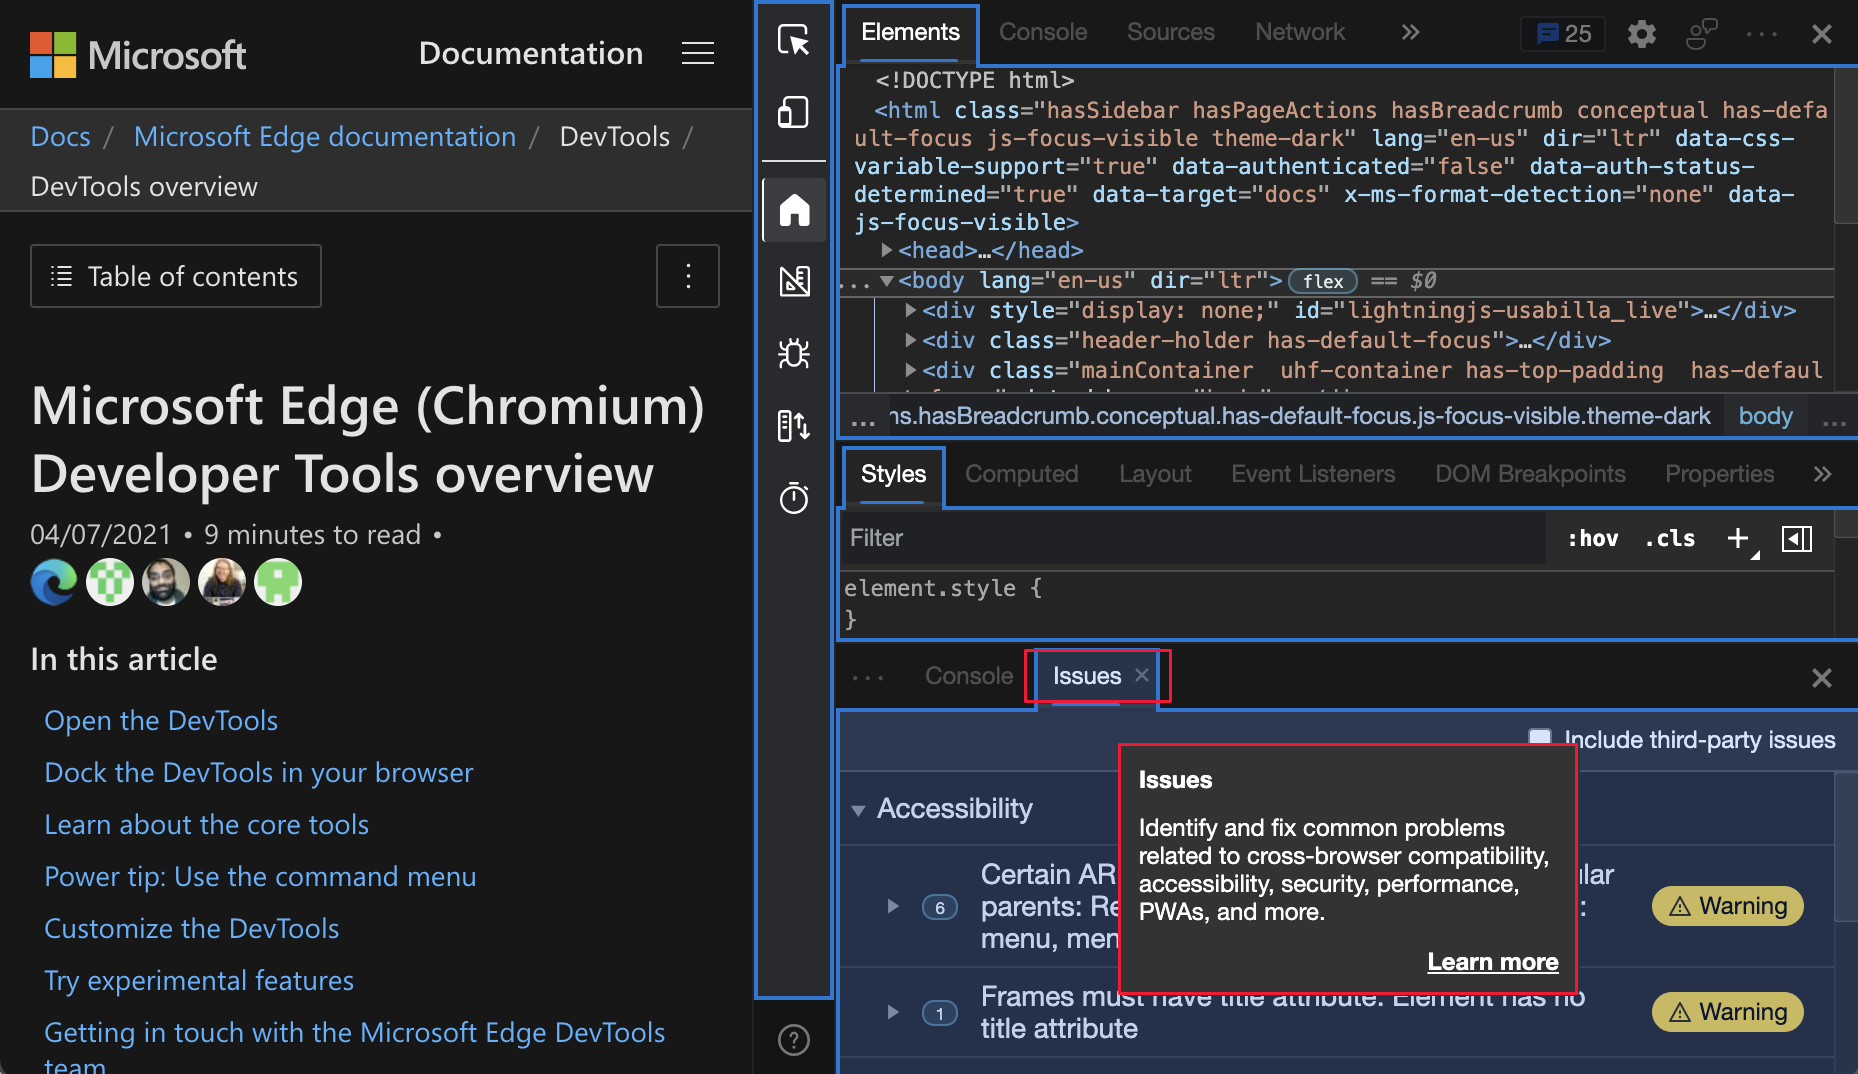
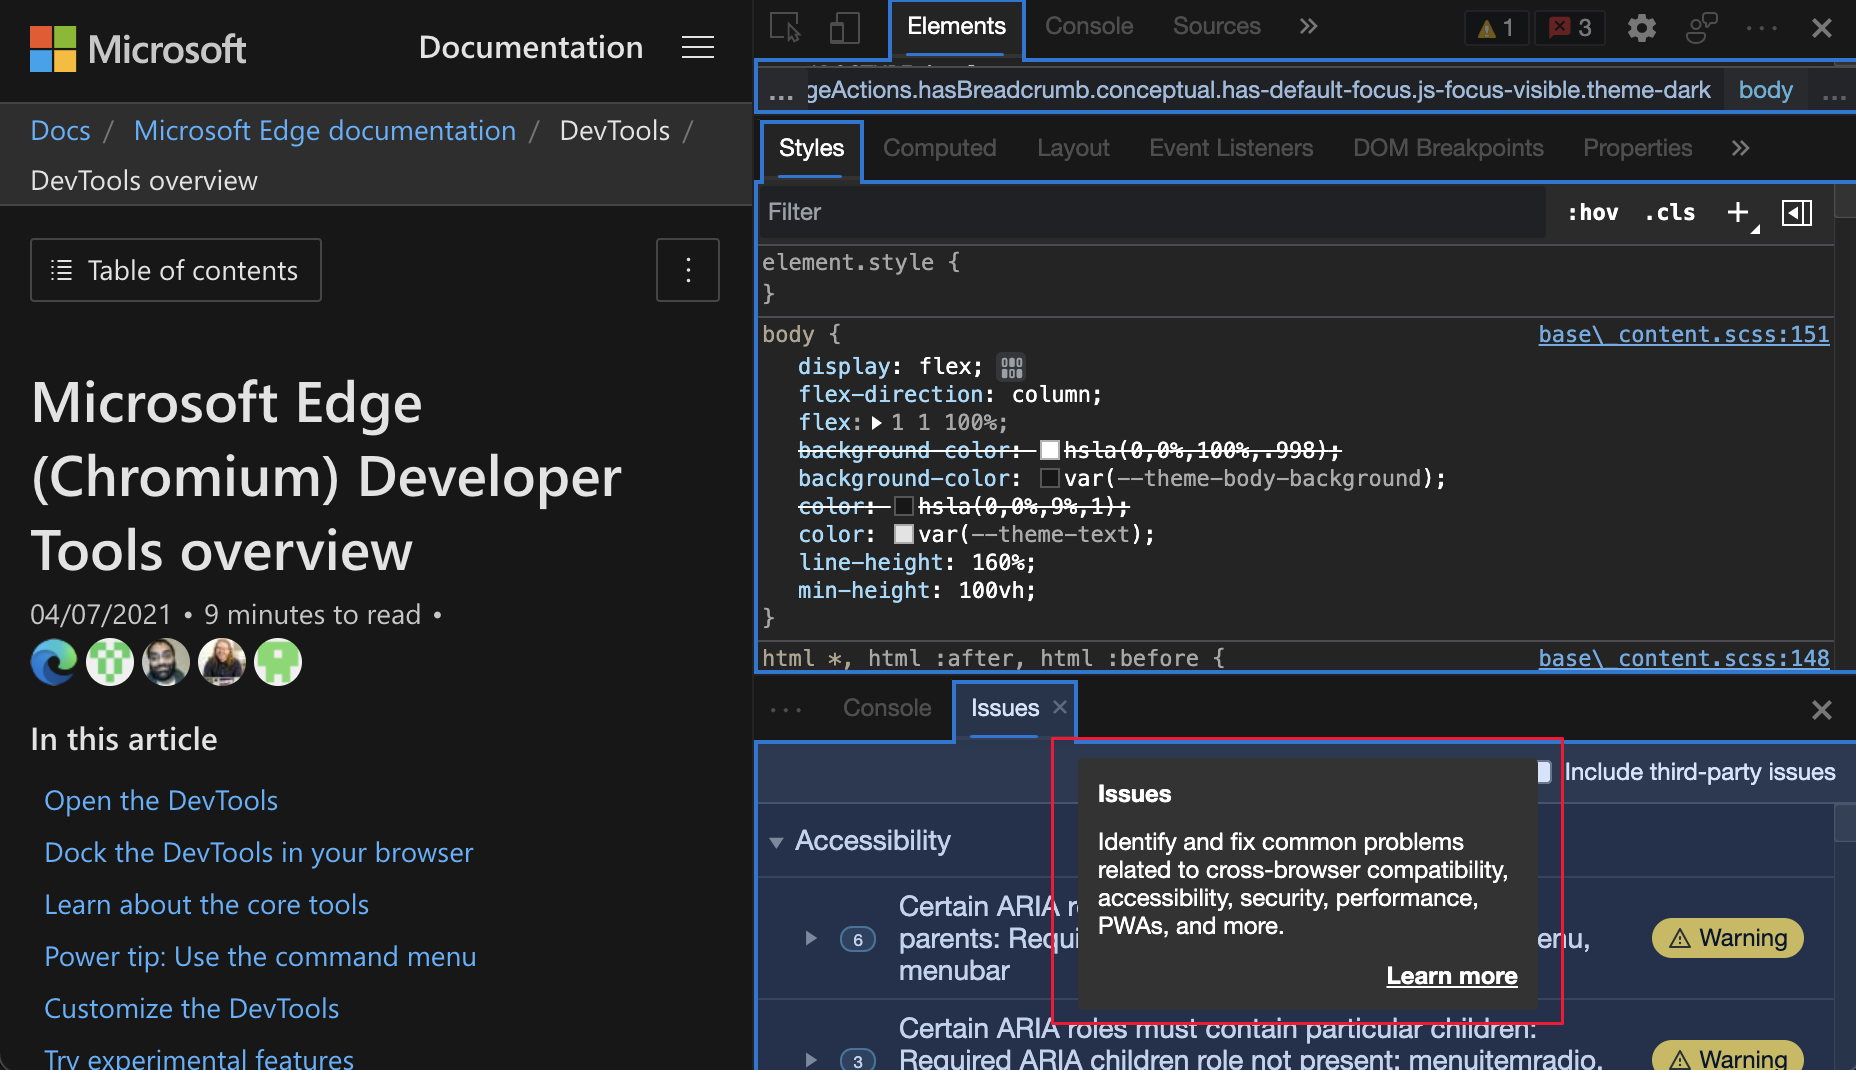
commit from WebFundamentals

diff --git a/microsoft-edge/devtools-guide-chromium/whats-new/2021/04/devtools.md b/microsoft-edge/devtools-guide-chromium/whats-new/2021/04/devtools.md
@@ -1,0 +1,236 @@
+---
+description: Wavy underlines highlight code issues in the Elements tool, Service worker update timeline, and more.
+title: What's new in DevTools (Microsoft Edge 91)
+author: MSEdgeTeam
+ms.author: msedgedevrel
+ms.date: 04/21/2021
+ms.topic: article
+ms.prod: microsoft-edge
+keywords: microsoft edge, web development, f12 tools, devtools
+---
+<!-- Copyright Jecelyn Yeen 
+
+   Licensed under the Apache License, Version 2.0 (the "License");
+   you may not use this file except in compliance with the License.
+   You may obtain a copy of the License at
+
+       https://www.apache.org/licenses/LICENSE-2.0
+
+   Unless required by applicable law or agreed to in writing, software
+   distributed under the License is distributed on an "AS IS" BASIS,
+   WITHOUT WARRANTIES OR CONDITIONS OF ANY KIND, either express or implied.
+   See the License for the specific language governing permissions and
+   limitations under the License.  -->  
+# What's New In DevTools (Microsoft Edge 91)  
+
+[!INCLUDE [contact DevTools team note](../../includes/edge-whats-new-note.md)]  
+
+## Wavy underlines highlight code issues and improvements in Elements tool  
+
+<!--  Title: Get code hints in Elements tool  -->  
+<!--  Subtitle: Wavy underlines like the ones you see in Visual Studio Code now display in the Elements tool.  Underlines alert you to code issues related to accessibility, compatibility, security, performance, and  so on.  -->  
+
+In most modern IDEs, wavy underlines under text indicate syntax errors.   In Microsoft Edge version 91 or later, wavy underlines display under HTML in the **DOM** view of the **Elements** tool.  The wavy underlines indicate code issues and suggestions related to accessibility, compatibility, performance, and so on.  For more information about how to review and edit issues, navigate to [Find and fix problems with the Microsoft Edge DevTools Issues tool][DevtoolsIssuesIndex].  
+
+To open the **Issues** tool and learn more about the issue and how to fix it, complete one of the following actions.  
+
+*   Select and hold `Shift`, and then choose any wavy underline.  
+*   Complete the following actions.  
+    1.  Hover on any wavy underline.  
+    1.  Open the contextual menu \(right-click\).  
+    1.  Choose **Show in Issues**.  
+        
+:::row:::
+   :::column span="":::
+      :::image type="complex" source="../../media/2021/04/elements-iframe-highlight-issues.msft.png" alt-text="Choose the underlined error in the Elements tool" lightbox="../../media/2021/04/elements-iframe-highlight-issues.msft.png":::
+         Choose the underlined error in the **Elements** tool  
+      :::image-end:::  
+   :::column-end:::
+   :::column span="":::
+      :::image type="complex" source="../../media/2021/04/elements-iframe-highlight-issues-focus.msft.png" alt-text="Display error details in the Issues tool" lightbox="../../media/2021/04/elements-iframe-highlight-issues-focus.msft.png":::
+         Display error details in the **Issues** tool  
+      :::image-end:::  
+   :::column-end:::
+:::row-end:::  
+
+## Learn about DevTools with informative tooltips  
+
+:::image type="icon" source="../../media/2020/06/experimental-tag-14px.msft.png":::  
+
+<!--  Title: Learn more about DevTools with DevTools Tooltips  -->  
+<!--  Subtitle: Informative overlays are now available in the default DevTools interface.  -->  
+
+The DevTools Tooltips feature helps you learn about all the different tools and panes in DevTools.  To turn off Tooltips, select `Esc`.  To turn on Tooltips, complete one of the following actions.  
+
+*   Select `Ctrl`+`Shift`+`H` \(Windows/Linux\) or `Cmd`+`Shift`+`H` \(macOS\).  
+*   [Open the Command Menu][DevtoolsCommandMenuIndexOpenCommandMenu] and then type `tooltips`.  
+*   Choose **Customize and control DevTools** \(`...`\) > **Help** > **Toggle the DevTools Tooltips**.  
+
+Also, if you turn on the [Focus Mode and DevTools Tooltips][DevtoolsWhatsNew202102DevtoolsGroupToolsTogetherInFocusMode] experiment, you may also choose the **Toggle the DevTools Tooltips** \(`?`\) button at the bottom of the **Activity Bar**.  
+
+To display more information about how to use the DevTools, turn on Tooltips, and then hover on each outlined region of the DevTools.  
+
+:::image type="complex" source="../../media/2021/04/elements-issues-focus-mode-tooltips.msft.png" alt-text="Hover on anywhere in the highlighted region of the Issues tool to display more details" lightbox="../../media/2021/04/elements-issues-focus-mode-tooltips.msft.png":::
+   Hover on anywhere in the highlighted region of the **Issues** tool to display more details  
+:::image-end:::  
+
+## Service worker update timeline  
+
+<!--todo:  Update the linked [Service Worker improvements][DevtoolsServiceWorkerIndex] article.  -->  
+
+<!--  Title: The tasks associated with your Service Worker  -->  
+<!--  Subtitle: Debug with Service Worker Update Cycle  -->  
+
+In Microsoft Edge version 91 or later, if you are a Progressive Web App or Service Worker developer, you may display the update lifecycle of your Service Workers as a timeline in the **Application** tool.  This feature helps you understand the time your Service Worker spends in each of the following stages.  
+
+*   **Install**  
+*   **Wait**  
+*   **Activate**  
+    
+:::image type="complex" source="../../media/2021/04/application-service-workers-update-cycle-version-73-focus.msft.png" alt-text="Review the Timeline in the Update Cycle for your Service Worker" lightbox="../../media/2021/04/application-service-workers-update-cycle-version-73-focus.msft.png":::
+   Review the **Timeline** in the **Update Cycle** for your Service Worker  
+:::image-end:::  
+
+For more information about the lifecycle of your Service Workers, navigate to [The Service Worker lifecycle][ProgressiveWebAppsServiceworkerServiceWorkerLifecycle].  For more information about debugging tools for Progressive Web Apps and Service Workers in the DevTools, navigate to [Service Worker improvements][DevtoolsServiceWorkerIndex].  To review real-time updates on this feature in the Chromium open-source project, navigate to Issue [1066604][CR1066604].  
+
+## Progressive Web Apps no longer display warnings for non-square icons  
+
+<!--  Title: Non-square icons in app manifest no longer produce warnings  -->  
+<!--  Subtitle: As long as square icons are included in the app manifest, non-square icons no longer produce warnings  -->  
+
+In [Microsoft Edge version 90][DevtoolsWhatsNew202102Devtools] or earlier, if you included a non-square icon in the Web App Manifest of your PWA, the **Manifest** section in the **Application** tool displayed a warning under **Errors and Warnings** for each non-square icon.  In Microsoft Edge version 91 or later, the **Manifest** section in the **Application** tool displays no warnings if you provide at least one square icon.  If you don't provide any square icons, a warning displays the following message.  
+
+```output
+Most operating systems require square icons.  Please include at least one square icon in the array.  
+```  
+
+:::row:::
+   :::column span="":::
+      :::image type="complex" source="../../media/2021/04/edge89-application-manifest-errors-and-warnings.msft.png" alt-text="In Microsoft Edge version 90 or earlier, an error displays for each icon that is non-square" lightbox="../../media/2021/04/edge89-application-manifest-errors-and-warnings.msft.png":::
+         In Microsoft Edge version 90 or earlier, an error displays for each icon that is non-square  
+      :::image-end:::  
+   :::column-end:::
+   :::column span="":::
+      :::image type="complex" source="../../media/2021/04/edge91-application-manifest-errors-and-warnings.msft.png" alt-text="In Microsoft Edge version 91 or later, no error displays when you provide at least one square icon" lightbox="../../media/2021/04/edge91-application-manifest-errors-and-warnings.msft.png":::
+         In Microsoft Edge version 91 or later, no error displays when you provide at least one square icon  
+      :::image-end:::  
+   :::column-end:::
+:::row-end:::  
+
+To review errors and warnings in your Web App Manifest, navigate to the **Application** tool and choose the **Manifest** section.  Errors and warnings are listed under the **Errors and Warnings** heading.  For more information about the Web App Manifest, navigate to [Use the Web App Manifest to integrate your Progressive Web App into the Operating System][ProgressiveWebAppsWebappmanifests].  To create icons to include in your Web App Manifest, navigate to the [PWABuilder Image Generator][PwabuilderImagegenerator].  To review real-time updates on this feature in the Chromium open-source project, navigate to Issue [1185945][CR1185945].  
+
+## Localized DevTools now supported in Chromium-based browsers  
+
+<!--  Title: Localization for all  -->  
+<!--  Subtitle: Match browser language enabled to all Chromium-based browsers  -->  
+
+Starting in [Microsoft Edge version 81][DevtoolsWhatsNew202001DevtoolsUsingDevtoolsInOtherLanguages], Microsoft Edge DevTools displays in your own language.  Many developers use other developer tools like StackOverflow and Visual Studio Code in their native language, not just in English.  The Microsoft Edge DevTools team, Chrome DevTools team, and the Google Lighthouse team collaborated to provide the same experience in all Chromium-based browsers.  For more information about how to use DevTools in your language, navigate to [Change DevTools language settings][DevtoolsCustomizeLocalization].  For more information about the collaboration on this feature in the Chromium open-source project, navigate to [1136655][CR1136655].  
+
+:::image type="complex" source="../../media/2021/04/japanese-browser-japanese-navigation-elements-3d-view.msft.png" alt-text="Microsoft Edge browser and DevTools set to Japanese" lightbox="../../media/2021/04/japanese-browser-japanese-navigation-elements-3d-view.msft.png":::
+   Microsoft Edge browser and DevTools set to Japanese  
+:::image-end:::  
+
+## Use the keyboard to navigate to CSS variables  
+
+<!--  Title: Navigate to CSS variables with the arrow keys  -->  
+<!--  Subtitle: In the Styles pane, use the arrow keys to choose CSS variables.  Select `Enter` to see the variable definition.  -->  
+
+Starting in [Microsoft Edge version 88][DevtoolsWhatsNew202011DevtoolsCssVariableDefinitionsInStylesPane], the **Styles** pane displays CSS variables and provides a link directly to the definition of each variable.  In Microsoft Edge version 91 or later, you may use the arrow keys to easily navigate to CSS variables.  To open the definition in the **Styles** pane, hover on a variable, and then select `Enter`.  For more information about CSS variables, navigate to [Using CSS custom properties (variables)][MdnDocsWebCssUsingCssCustomProperties].  To review real-time updates on this feature in the Chromium open-source project, navigate to Issue [1187735][CR1187735].  
+
+:::image type="complex" source="../../media/2021/04/elements-styles-body-background-color-theme-body-background.msft.png" alt-text="The --theme-body-background CSS variable highlighted in the Styles pane" lightbox="../../media/2021/04/elements-styles-body-background-color-theme-body-background.msft.png":::
+   The `--theme-body-background` CSS variable highlighted in the **Styles** pane  
+:::image-end:::  
+
+## Issues are automatically sorted by severity  
+
+<!-- Title: Display Issues in severity order  -->  
+<!-- Subtitle: Entries in the Issues tool now display in severity order and allow you to focus your updates on the most important issues. -->  
+
+The **Issues** tool displays recommendations to improve your website, including accessibility, performance, security, and so on. Based on your feedback, issues are now automatically sorted by severity.  In each feedback category, each issue marked as an **Error** appears first, followed each issue marked as a **Warning**, then each issue marked as a **Tip**.  To help you refine your issues, extra filter options are planned for a future update.  For more information about how to review issues, navigate to [Find and fix problems with the Microsoft Edge DevTools Issues tool][DevtoolsIssuesIndex].  
+
+:::image type="complex" source="../../media/2021/04/elements-issues-ordered-issues.msft.png" alt-text="The Issues tool displays sorted issues by severity" lightbox="../../media/2021/04/elements-issues-ordered-issues.msft.png":::
+   The **Issues** tool displays sorted issues by severity  
+:::image-end:::  
+
+## Microsoft Edge Developer Tools for Visual Studio Code version 1.1.7  
+
+<!-- Title: Microsoft Edge DevTools for Visual Studio version 1.1.7  -->  
+<!-- Subtitle: Increased target closure reliability, automatically update the side panel, new contextual menu for settings and Changelog, and more. -->  
+
+The [Microsoft Edge Tools for Visual Studio Code extension][VisualstudioMarketplaceMsEdgedevtoolsVscodeEdgeDevtools] version 1.1.7 provides the DevTools from [Microsoft Edge version 88][DevtoolsWhatsNew202011Devtools].  This extension now supports ARM devices and no longer depends on the [Debugger for Microsoft Edge][VisualstudioMarketplaceMsjsdiagDebuggerForEdge] extension.  Version 1.1.7 includes the following bug fixes and improvements.  
+
+*   Updated the reliability of target closure.  
+*   Updated the side panel to automatically refreshes when you debug targets that are created or destroyed.  
+*   Added a new contextual menu that gives you faster access to the extension settings and the latest Changelog.  
+*   Updated and simplified the release of extension documentation including the newest features.  
+    
+To manually update to version 1.1.7, navigate to [Update an extension manually][VisualstudioCodeDocsEditorExtensionGalleryUpdateExtensionManually].  You may file issues and contribute to the extension on the [vscode-edge-devtools GitHub repo][GithubMicrosoftVscodeEdgeDevtools].  
+
+<!--## Announcements from the Chromium project  
+
+[!INCLUDE [contact DevTools team note](../../includes/chromium-whats-new-note.md)]  
+
+### Ipsum et Chromium  
+
+Lorem al lorem et Chromium  To review the history of this feature in the Chromium open-source project, navigate to Issue [xxxxxxx][CRxxxxxxx].  
+
+:::image type="complex" source="../../media/2021/04/lorem-et-chromium.msft.png" alt-text="Ipsum et Chromium" lightbox="../../media/2021/04/lorem-et-chromium.msft.png":::
+   Ipsum et Chromium  
+:::image-end:::  -->  
+
+## Download the Microsoft Edge preview channels  
+
+If you are on Windows, Linux, or macOS, consider using the [Microsoft Edge preview channels][MicrosoftEdgePreviewChannels] as your default development browser.  The preview channels give you access to the latest DevTools features.  
+
+## Getting in touch with Microsoft Edge DevTools team  
+
+[!INCLUDE [contact DevTools team note](../../includes/contact-whats-new-note.md)]
+
+<!-- links -->  
+
+[DevtoolsWhatsNew202001DevtoolsUsingDevtoolsInOtherLanguages]: ../../2020/01/devtools.md#using-the-devtools-in-other-languages "Using the DevTools in other languages - What's New In DevTools (Microsoft Edge 81) | Microsoft Docs"  
+[DevtoolsWhatsNew202011Devtools]: ../../2020/11/devtools.md "What's new in DevTools (Microsoft Edge 88) | Microsoft Docs"  
+[DevtoolsWhatsNew202011DevtoolsCssVariableDefinitionsInStylesPane]: /microsoft-edge/devtools-guide-chromium/whats-new/2020/11/devtools#css-variable-definitions-in-styles-pane "CSS variable definitions in Styles pane - What's New in DevTools (Microsoft Edge 88) | Microsoft Docs"  
+[DevtoolsWhatsNew202102Devtools]: ../02/devtools.md "What's New In DevTools (Microsoft Edge 90) | Microsoft Docs"  
+[DevtoolsWhatsNew202102DevtoolsGroupToolsTogetherInFocusMode]: ../02/devtools.md#group-tools-together-in-focus-mode "Group tools together in Focus Mode - What's New In DevTools (Microsoft Edge 90) | Microsoft Docs"  
+
+[DevtoolsCommandMenuIndexOpenCommandMenu]: /microsoft-edge/devtools-guide-chromium/command-menu/index.md#open-the-command-menu "Open the Command Menu - Run commands with the Microsoft Edge DevTools Command menu | Microsoft Docs"  
+[DevtoolsCustomizeLocalization]: /microsoft-edge/devtools-guide-chromium/customize/localization "Change DevTools language settings | Microsoft Docs"  
+[DevtoolsIssuesIndex]: /microsoft-edge/devtools-guide-chromium/issues/index "Find and fix problems with the Microsoft Edge DevTools Issues tool | Microsoft Docs"  
+[DevtoolsServiceWorkerIndex]: /microsoft-edge/devtools-guide-chromium/service-workers/index "Service Worker improvements | Microsoft Docs"  
+
+[ProgressiveWebAppsServiceworkerServiceWorkerLifecycle]: /microsoft-edge/progressive-web-apps-chromium/serviceworker#the-service-worker-lifecycle "The Service Worker lifecycle - Use Service Workers to manage network requests and push notifications | Microsoft Docs"  
+[ProgressiveWebAppsWebappmanifests]: /microsoft-edge/progressive-web-apps-chromium/webappmanifests "Use the Web App Manifest to integrate your Progressive Web App into the Operating System | Microsoft Docs"  
+
+[GithubMicrosoftVscodeEdgeDevtools]: https://github.com/microsoft/vscode-edge-devtools "microsoft/vscode-edge-devtools | GitHub"  
+<!--[GithubMicrosoftVscodeEdgeDevtoolsPullxxx]: https://github.com/microsoft/vscode-edge-devtools/pull/xxx "Pull xxx: Lorem al Ipsum | GitHub"  -->  
+
+[MicrosoftEdgePreviewChannels]: https://www.microsoftedgeinsider.com/download "Microsoft Edge Preview Channels"  
+
+[VisualstudioCodeDocsEditorExtensionGalleryUpdateExtensionManually]: https://code.visualstudio.com/docs/editor/extension-gallery#_update-an-extension-manually "Update an extension manually - Extension Marketplace | Visual Studio Code"  
+
+[VisualstudioMarketplaceMsEdgedevtoolsVscodeEdgeDevtools]: https://marketplace.visualstudio.com/items?itemName=ms-edgedevtools.vscode-edge-devtools "Microsoft Edge Tools for Visual Studio Code | Visual Studio Marketplace"  
+[VisualstudioMarketplaceMsjsdiagDebuggerForEdge]: https://marketplace.visualstudio.com/items?itemName=msjsdiag.debugger-for-edge "Debugger for Microsoft Edge | Visual Studio Marketplace"  
+
+[CRIssuesList]: https://bugs.chromium.org/p/chromium/issues/list "Chromium bugs"  
+[CR1066604]: https://crbug.com/1066604 "Issue 1066604: DevTools: See details about ServiceWorker install and activate events | Chromium bugs"  
+[CR1136655]: https://crbug.com/1136655 "Issue 1136655: Devtools: Localization V2 | Chromium bugs"  
+[CR1185945]: https://crbug.com/1185945 "Issue 1185945: Manifest warning implies all icons must be square | Chromium bugs"  
+[CR1187735]: https://crbug.com/1187735 "Issue 1187735: Accessibility: MAS2.1.1: Keyboard: Unable to invoke the 'Var(..)' function using keyboard | Chromium bugs"  
+
+[MdnDocsWebCssUsingCssCustomProperties]: https://developer.mozilla.org/docs/Web/CSS/Using_CSS_custom_properties "Using CSS custom properties (variables) | MDN"  
+
+[PwabuilderImagegenerator]: https://www.pwabuilder.com/imageGenerator "Image Generator | PWABuilder"  
+
+<!--  > [!NOTE]
+> Portions of this page are modifications based on work created and [shared by Google][GoogleSitePolicies] and used according to terms described in the [Creative Commons Attribution 4.0 International License][CCA4IL].  
+> The original page is found [here](https://developer.chrome.com/blog/new-in-devtools-91) and is authored by [Jecelyn Yeen][JecelynYeen] \(Developer advocate, Chrome DevTools\).  
+
+[![Creative Commons License][CCby4Image]][CCA4IL]  
+This work is licensed under a [Creative Commons Attribution 4.0 International License][CCA4IL].  
+
+[CCA4IL]: https://creativecommons.org/licenses/by/4.0  
+[CCby4Image]: https://i.creativecommons.org/l/by/4.0/88x31.png  
+[GoogleSitePolicies]: https://developers.google.com/terms/site-policies  
+[JecelynYeen]: https://developers.google.com/web/resources/contributors/jecelynyeen
+-->
